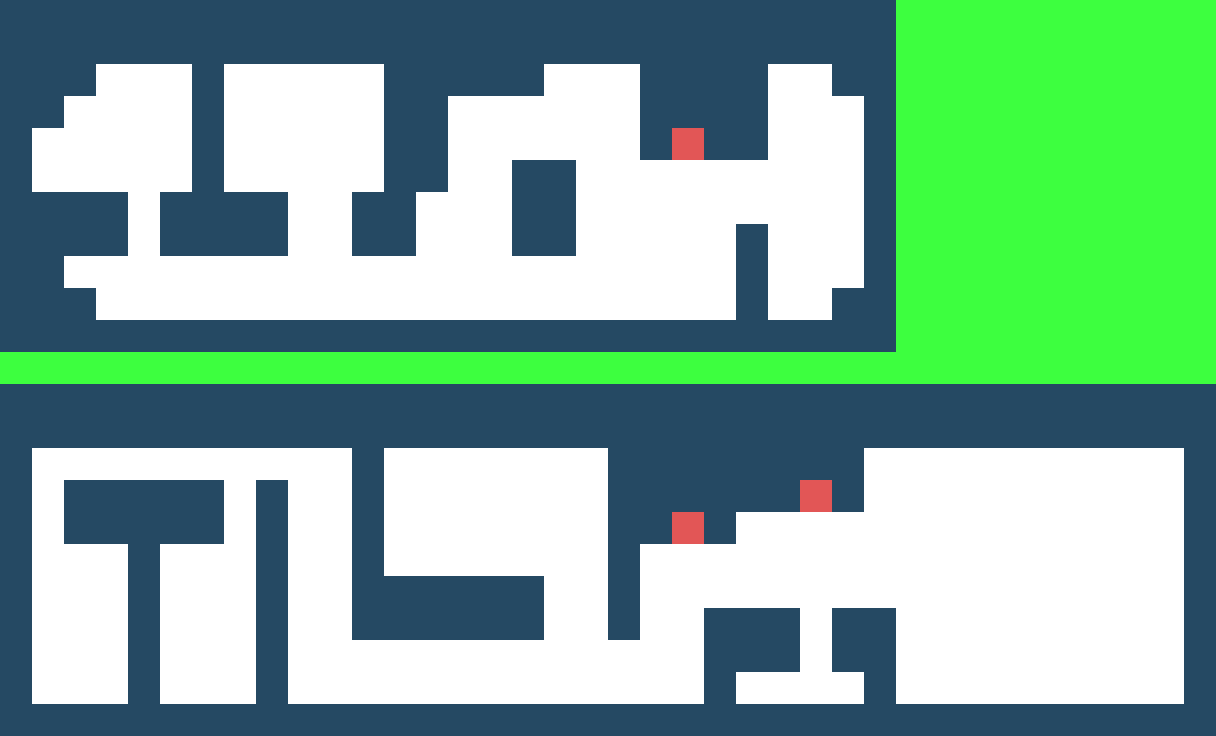
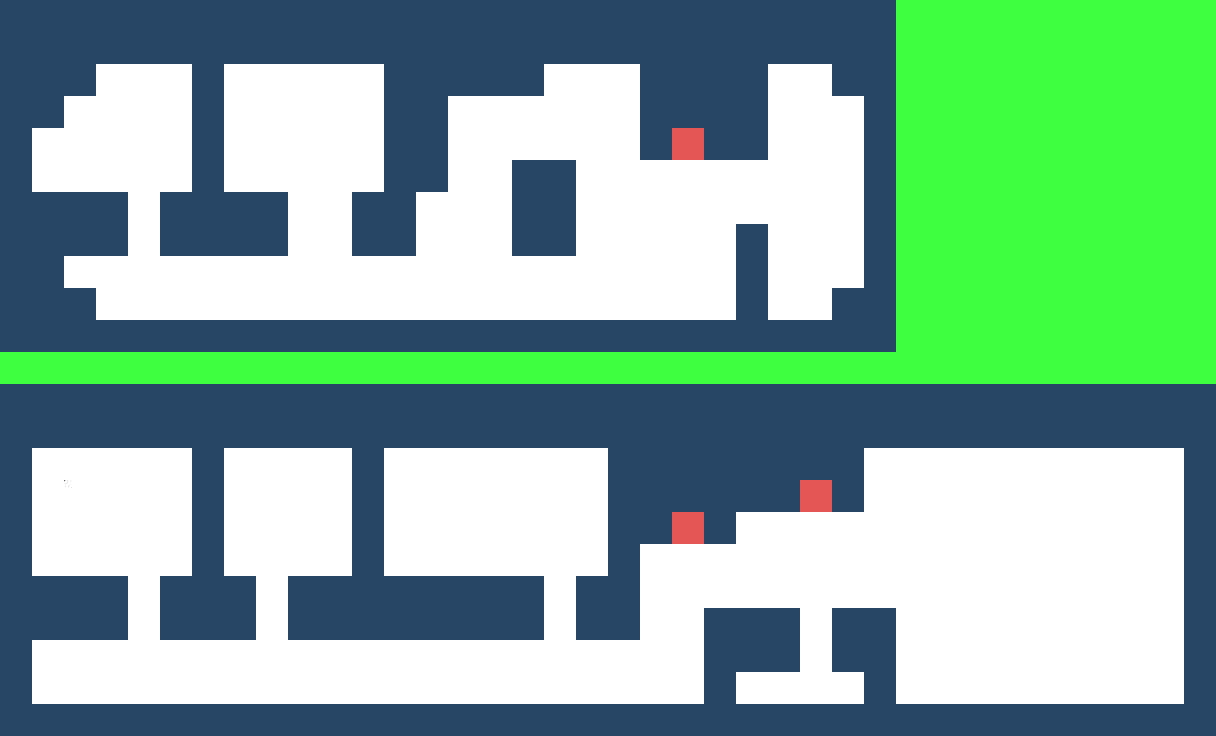
change layout

Changed region(s): [[0.0, 0.5938, 0.3125, 0.9688], [0.4688, 0.7812, 0.5, 0.875]]

diff --git a/AstroMiner/Definitions/StaticWorlds.cs b/AstroMiner/Definitions/StaticWorlds.cs
@@ -137,14 +137,14 @@ public static class StaticWorlds
                 World.ShipDownstairs, new StaticWorldConfig("ship", 38, 11, """
                                                                             X,X,X,X,X,X,X,X,X,X,X,X,X,X,X,X,X,X,X,X,X,X,X,X,X,X,X,X,X,X,X,X,X,X,X,X,X,X
                                                                             X,X,X,X,X,X,X,X,X,X,X,X,X,X,X,X,X,X,X,X,X,X,X,X,X,X,X,X,X,X,X,X,X,X,X,X,X,X
-                                                                            X,-,-,-,-,-,-,-,-,-,-,X,-,-,-,-,-,-,-,X,X,X,X,X,X,X,X,-,-,-,-,-,-,-,-,-,-,X
-                                                                            X,-,X,X,X,X,X,-,X,-,-,X,-,-,-,-,-,-,-,X,X,X,X,X,X,@,X,-,-,-,-,-,-,-,-,-,-,X
-                                                                            X,-,X,X,X,X,X,-,X,-,-,X,-,-,-,-,-,-,-,X,X,@,X,-,-,-,-,-,-,-,-,-,-,-,-,-,-,X
-                                                                            X,-,-,-,X,-,-,-,X,-,-,X,-,-,-,-,-,-,-,X,-,-,-,-,-,-,-,-,-,-,-,-,-,-,-,-,-,X
-                                                                            X,-,-,-,X,-,-,-,X,-,-,X,X,X,X,X,X,-,-,X,-,-,-,-,-,-,-,-,-,-,-,-,-,-,-,-,-,X
-                                                                            X,-,-,-,X,-,-,-,X,-,-,X,X,X,X,X,X,-,-,X,-,-,X,X,X,-,X,X,-,-,-,-,-,-,-,-,-,X
-                                                                            X,-,-,-,X,-,-,-,X,-,-,-,-,-,-,-,-,-,-,-,-,-,X,X,X,-,X,X,-,-,-,-,-,-,-,-,-,X
-                                                                            X,-,-,-,X,-,-,-,X,-,-,-,-,-,-,-,-,-,-,-,-,-,X,-,-,-,-,X,-,-,-,-,-,-,-,-,-,X
+                                                                            X,-,-,-,-,-,X,-,-,-,-,X,-,-,-,-,-,-,-,X,X,X,X,X,X,X,X,-,-,-,-,-,-,-,-,-,-,X
+                                                                            X,-,-,-,-,-,X,-,-,-,-,X,-,-,-,-,-,-,-,X,X,X,X,X,X,@,X,-,-,-,-,-,-,-,-,-,-,X
+                                                                            X,-,-,-,-,-,X,-,-,-,-,X,-,-,-,-,-,-,-,X,X,@,X,-,-,-,-,-,-,-,-,-,-,-,-,-,-,X
+                                                                            X,-,-,-,-,-,X,-,-,-,-,X,-,-,-,-,-,-,-,X,-,-,-,-,-,-,-,-,-,-,-,-,-,-,-,-,-,X
+                                                                            X,X,X,X,-,X,X,X,-,X,X,X,X,X,X,X,X,-,X,X,-,-,-,-,-,-,-,-,-,-,-,-,-,-,-,-,-,X
+                                                                            X,X,X,X,-,X,X,X,-,X,X,X,X,X,X,X,X,-,X,X,-,-,X,X,X,-,X,X,-,-,-,-,-,-,-,-,-,X
+                                                                            X,-,-,-,-,-,-,-,-,-,-,-,-,-,-,-,-,-,-,-,-,-,X,X,X,-,X,X,-,-,-,-,-,-,-,-,-,X
+                                                                            X,-,-,-,-,-,-,-,-,-,-,-,-,-,-,-,-,-,-,-,-,-,X,-,-,-,-,X,-,-,-,-,-,-,-,-,-,X
                                                                             X,X,X,X,X,X,X,X,X,X,X,X,X,X,X,X,X,X,X,X,X,X,X,X,X,X,X,X,X,X,X,X,X,X,X,X,X,X
                                                                             """, 12)
             }

diff --git a/AstroMiner/Notes/Caravan-concept.md b/AstroMiner/Notes/Caravan-concept.md
@@ -136,6 +136,8 @@ The caravan moves continually round the traderoute of the 4 planets. Each planet
   - Rikus changed software to not be combat focused anymore
     - Now has sense of humour
     - Often makes jokes about killing people - people aren't sure if Rikus did a good job
+    - Has to be programmed to not shoot to kill strangers
+    - Quest point - shoots person who comes onboard
 
 ## Game Opening Options
 
